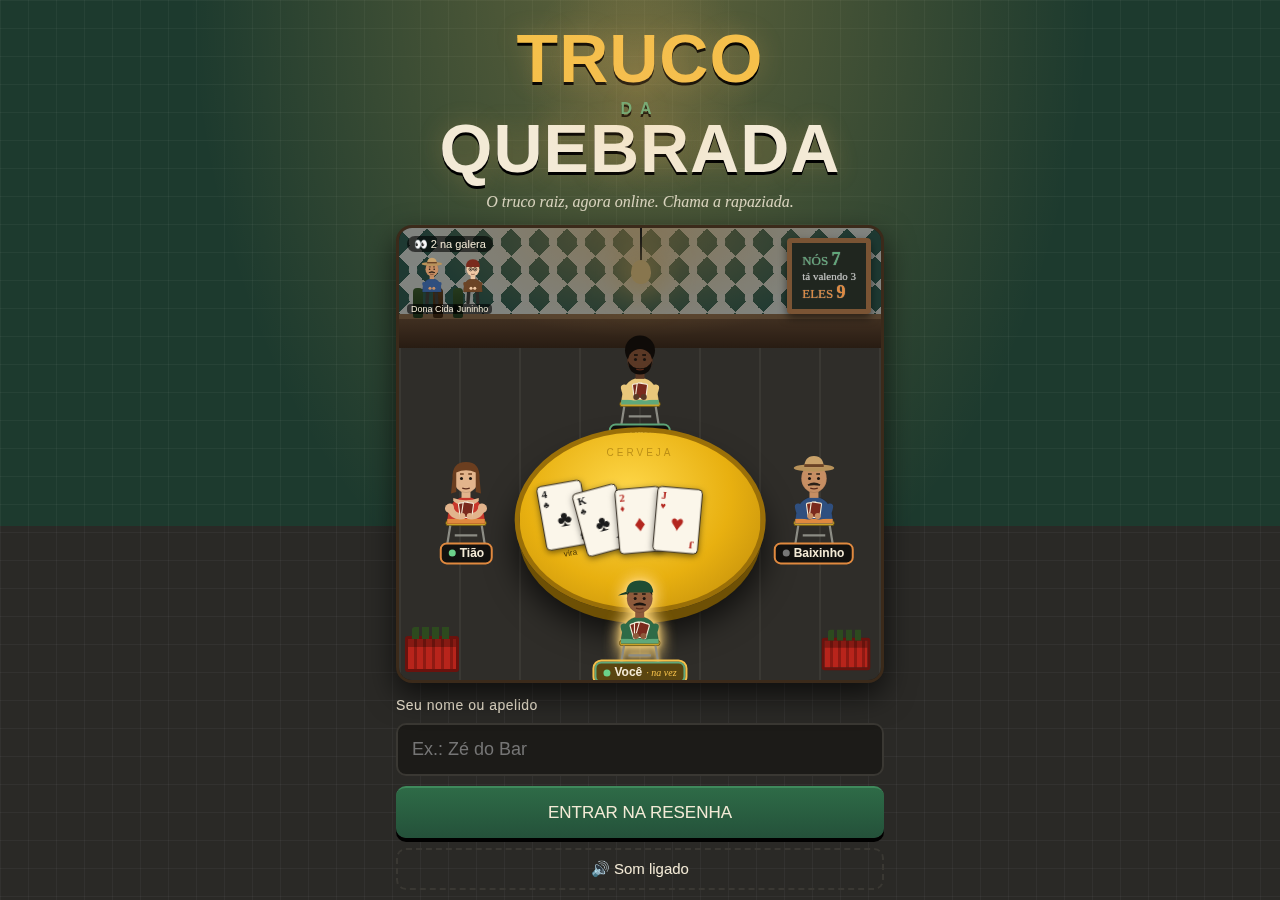
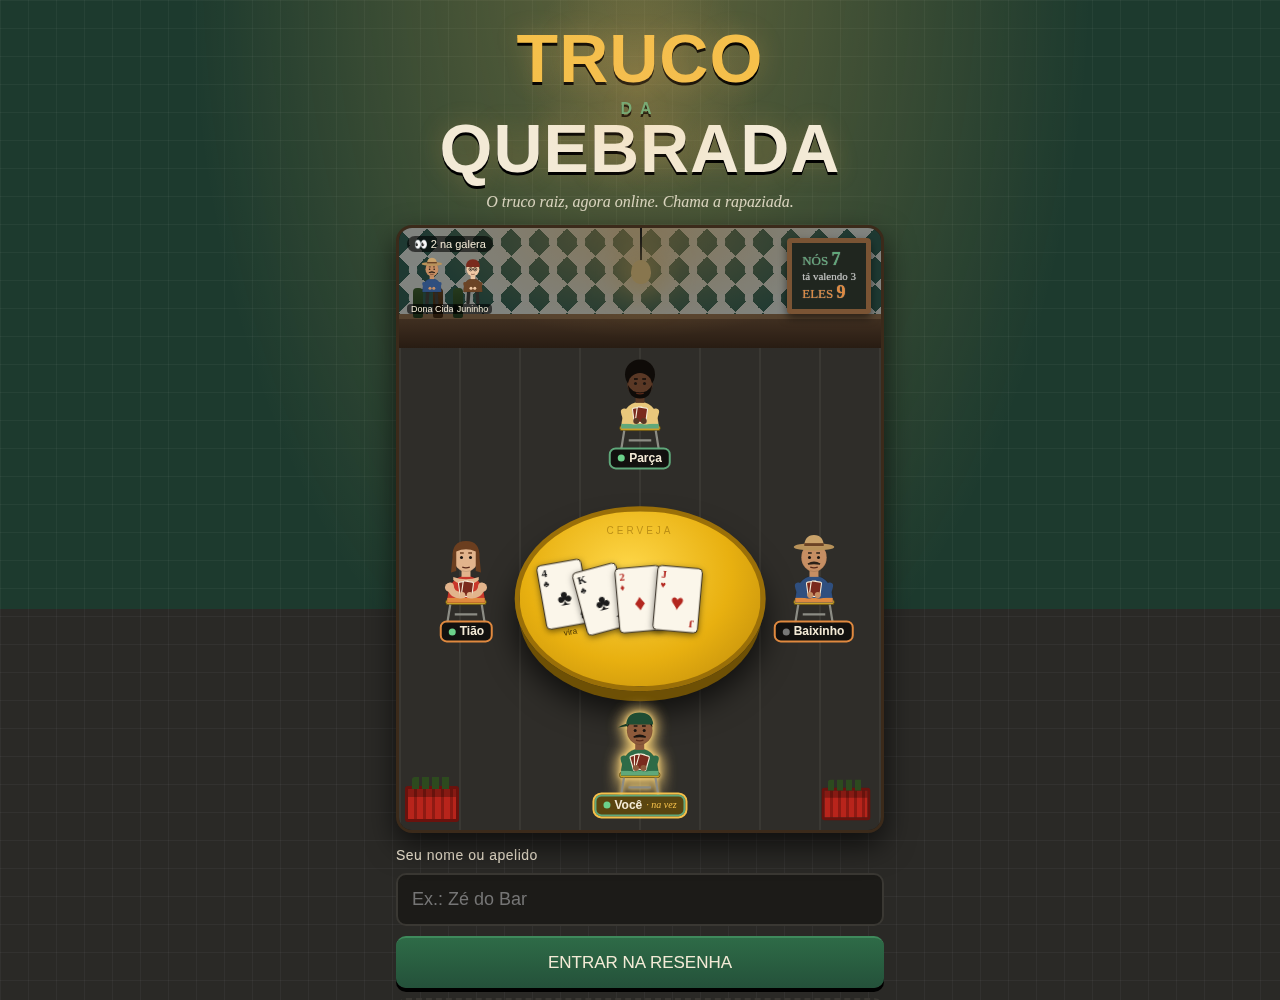
ajuste preview

Changed region(s): [[0.3125, 0.0311, 0.6875, 0.9956]]

diff --git a/apps/web/src/styles.css b/apps/web/src/styles.css
@@ -41,7 +41,7 @@ body{background:radial-gradient(ellipse at 50% -5%,rgba(255,196,90,.3),transpare
 .spec small{font-size:9px;background:#0009;padding:0 4px;border-radius:4px;white-space:nowrap}
 .floor{position:relative;aspect-ratio:1/1;background:
  repeating-linear-gradient(90deg,#3a3833 0 2px,#2f2d29 2px 60px),radial-gradient(ellipse at 50% 30%,rgba(255,190,80,.22),transparent 70%);background-blend-mode:normal}
-.boteco--compact .floor{aspect-ratio:16/11}
+.boteco--compact .floor{aspect-ratio:1/1}
 .crate{position:absolute;width:54px;height:36px;background:repeating-linear-gradient(90deg,#b8241b 0 6px,#8e1a13 6px 9px);border:3px solid #6a120d;border-radius:3px;box-shadow:inset 0 8px 0 #0004}
 .crate::after{content:"";position:absolute;left:4px;right:4px;top:-12px;height:12px;background:repeating-linear-gradient(90deg,#2d4a1e 0 7px,transparent 7px 10px);border-radius:3px 3px 0 0}
 .crate.c1{left:6px;bottom:8px}.crate.c2{right:8px;bottom:8px;transform:scale(.9)}
